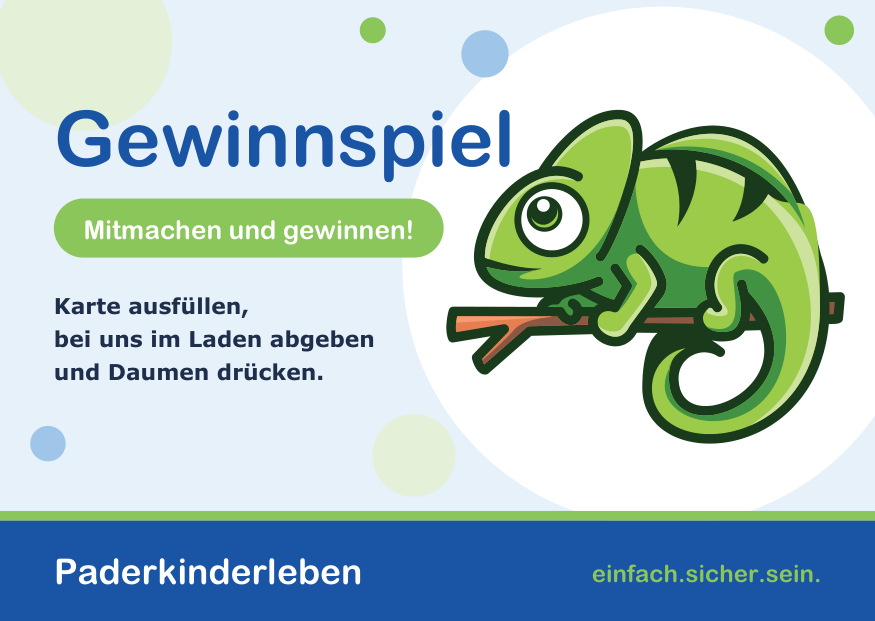
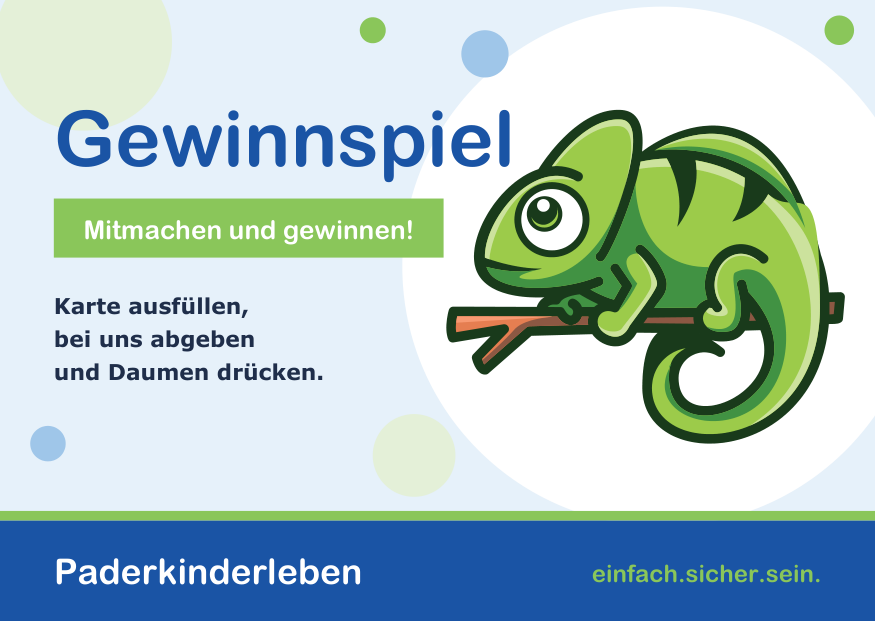
Update: Gewinnspielkarte – 'bei uns abgeben', eckiges Textfeld

diff --git a/scripts/gewinnspielkarte.py b/scripts/gewinnspielkarte.py
@@ -188,10 +188,10 @@ def front(c):
     draw_chameleon(c, 75, 60 - ch_height(cw) / 2 + 1, cw)
     # Text
     text(c, 9, 77, "Gewinnspiel", "Rund", 37, BLAU)
-    rect(c, 9, 61.5, 66, 10, GRUEN, r=5)
+    rect(c, 9, 61.5, 66, 10, GRUEN)
     text(c, 42, 64.6, "Mitmachen und gewinnen!", "Rund", 12.5, WEISS, "c")
     y = 52
-    for line in ("Karte ausfüllen,", "bei uns im Laden abgeben", "und Daumen drücken."):
+    for line in ("Karte ausfüllen,", "bei uns abgeben", "und Daumen drücken."):
         text(c, 9, y, line, "TextB", 10.5, NAVY); y -= 5.6
     # Fußband
     rect(c, -B, -B, W + 2 * B, 17 + B, BLAU)
